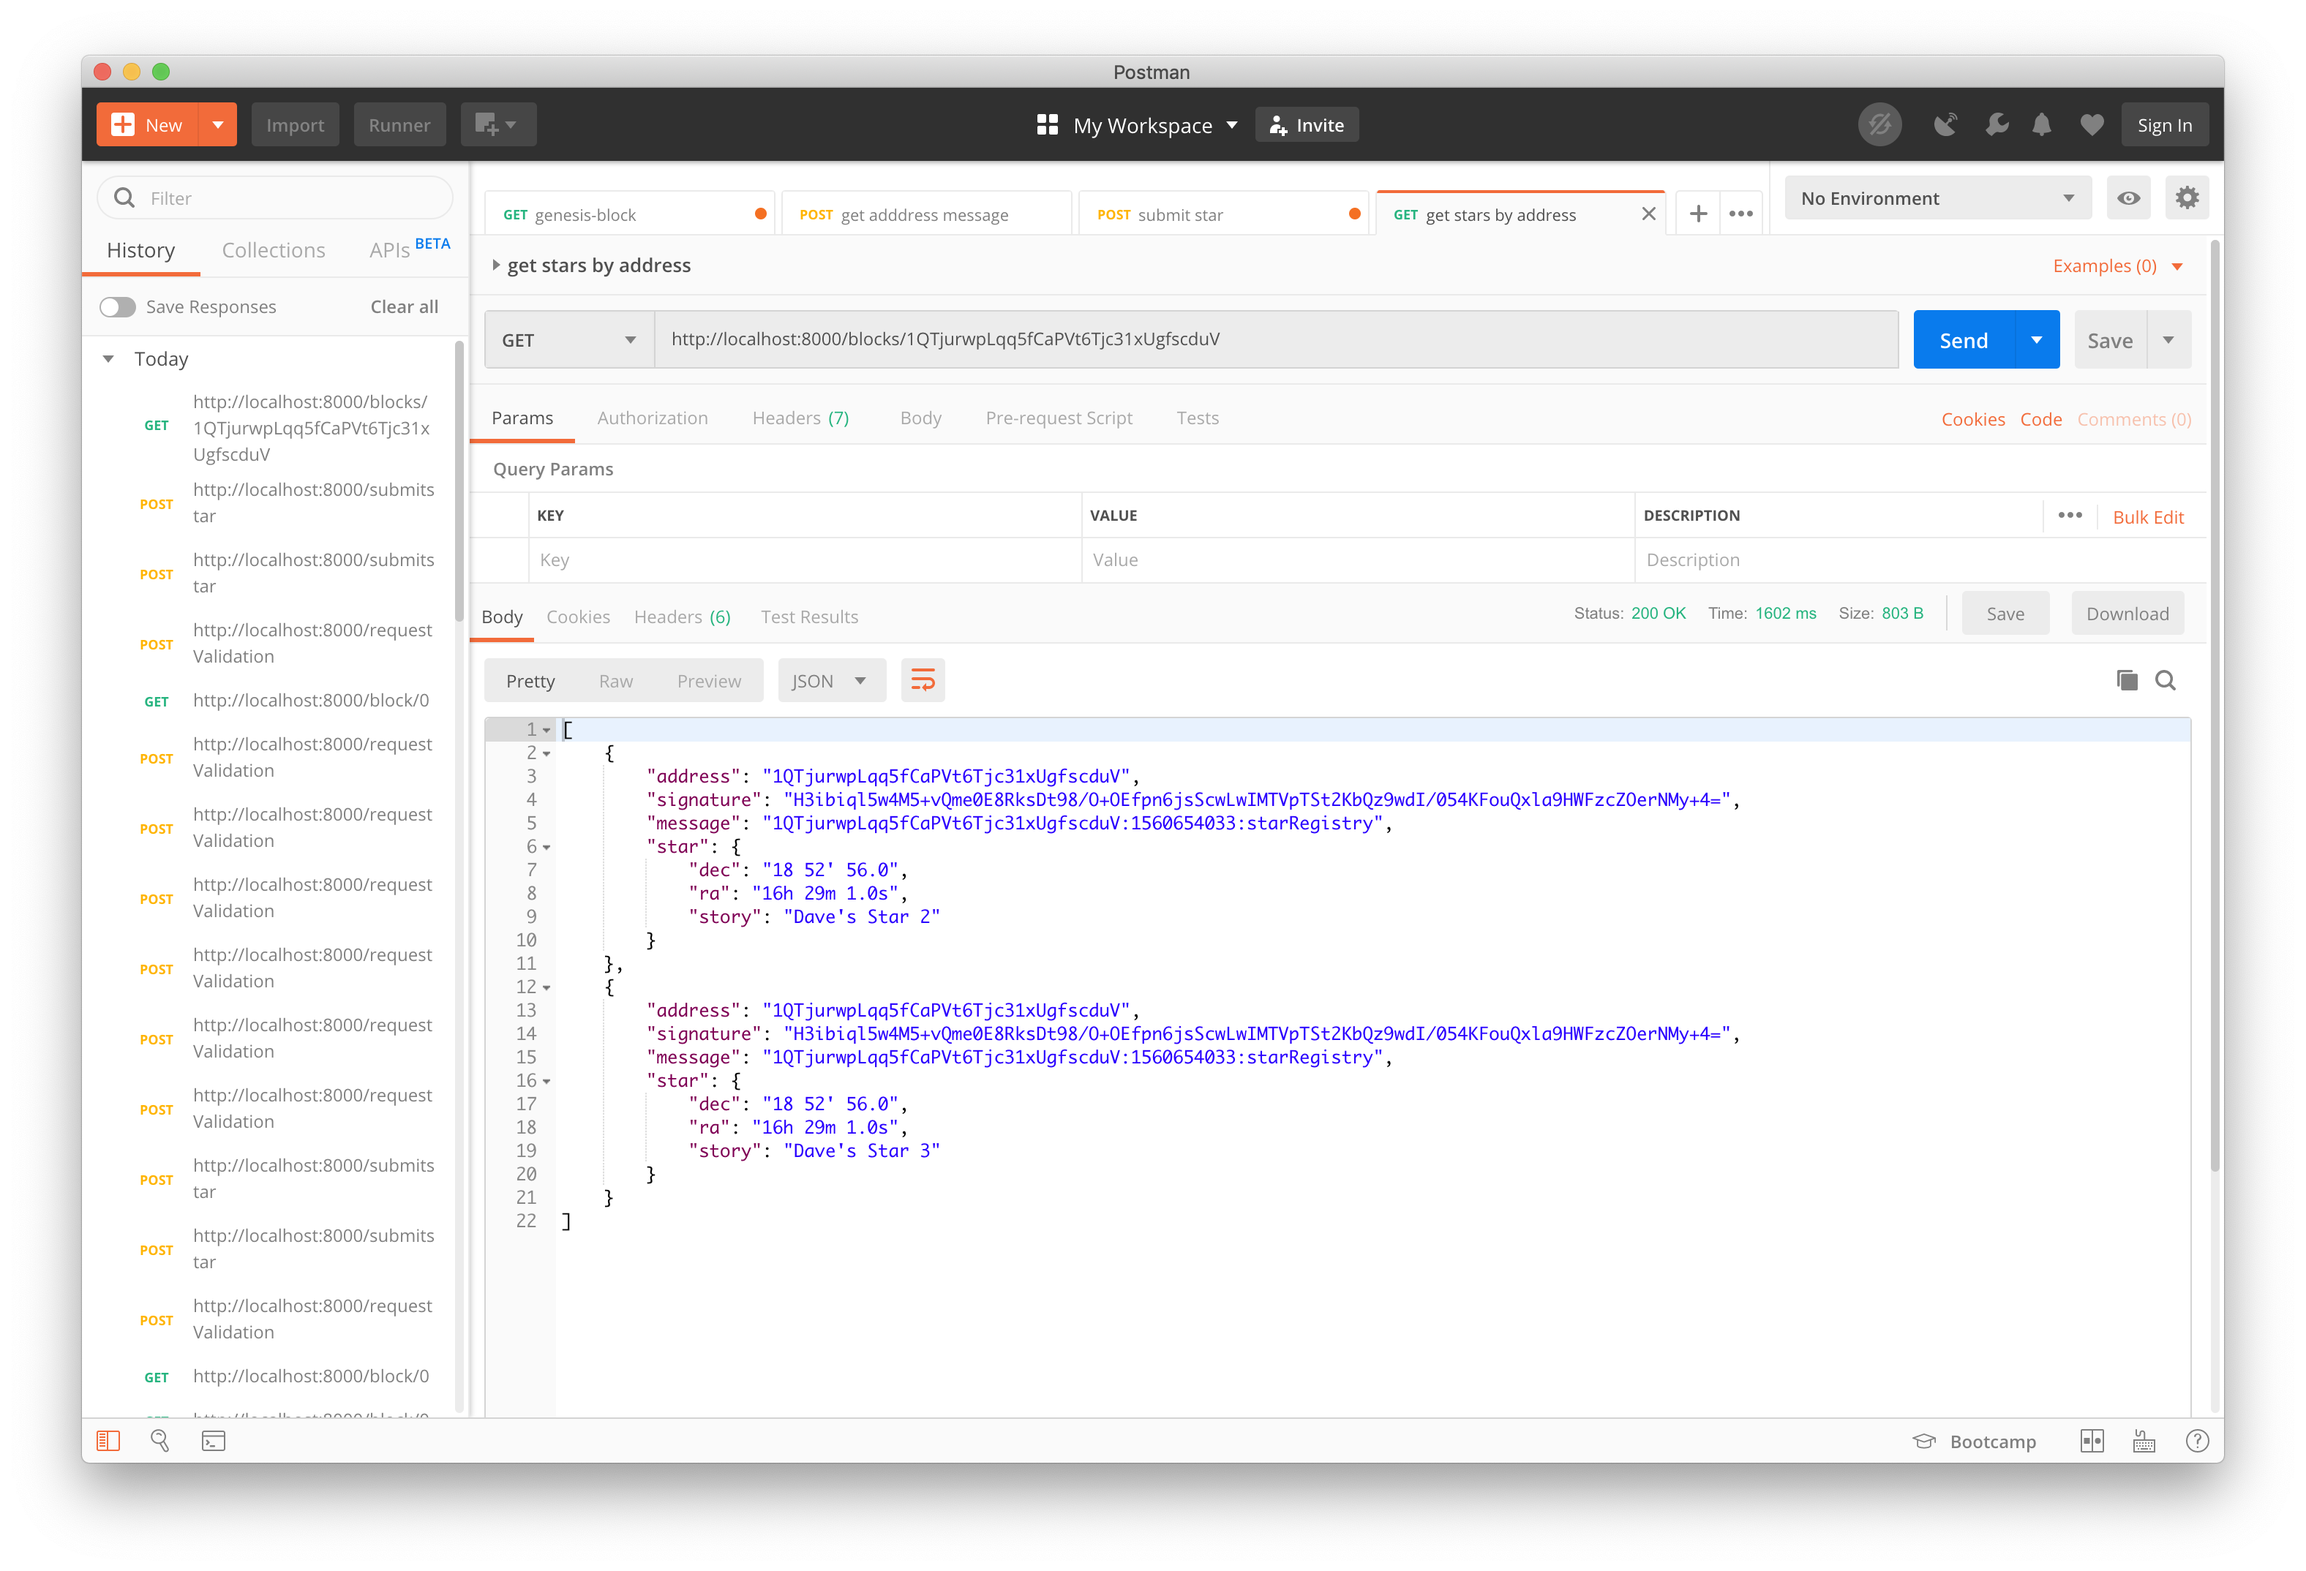
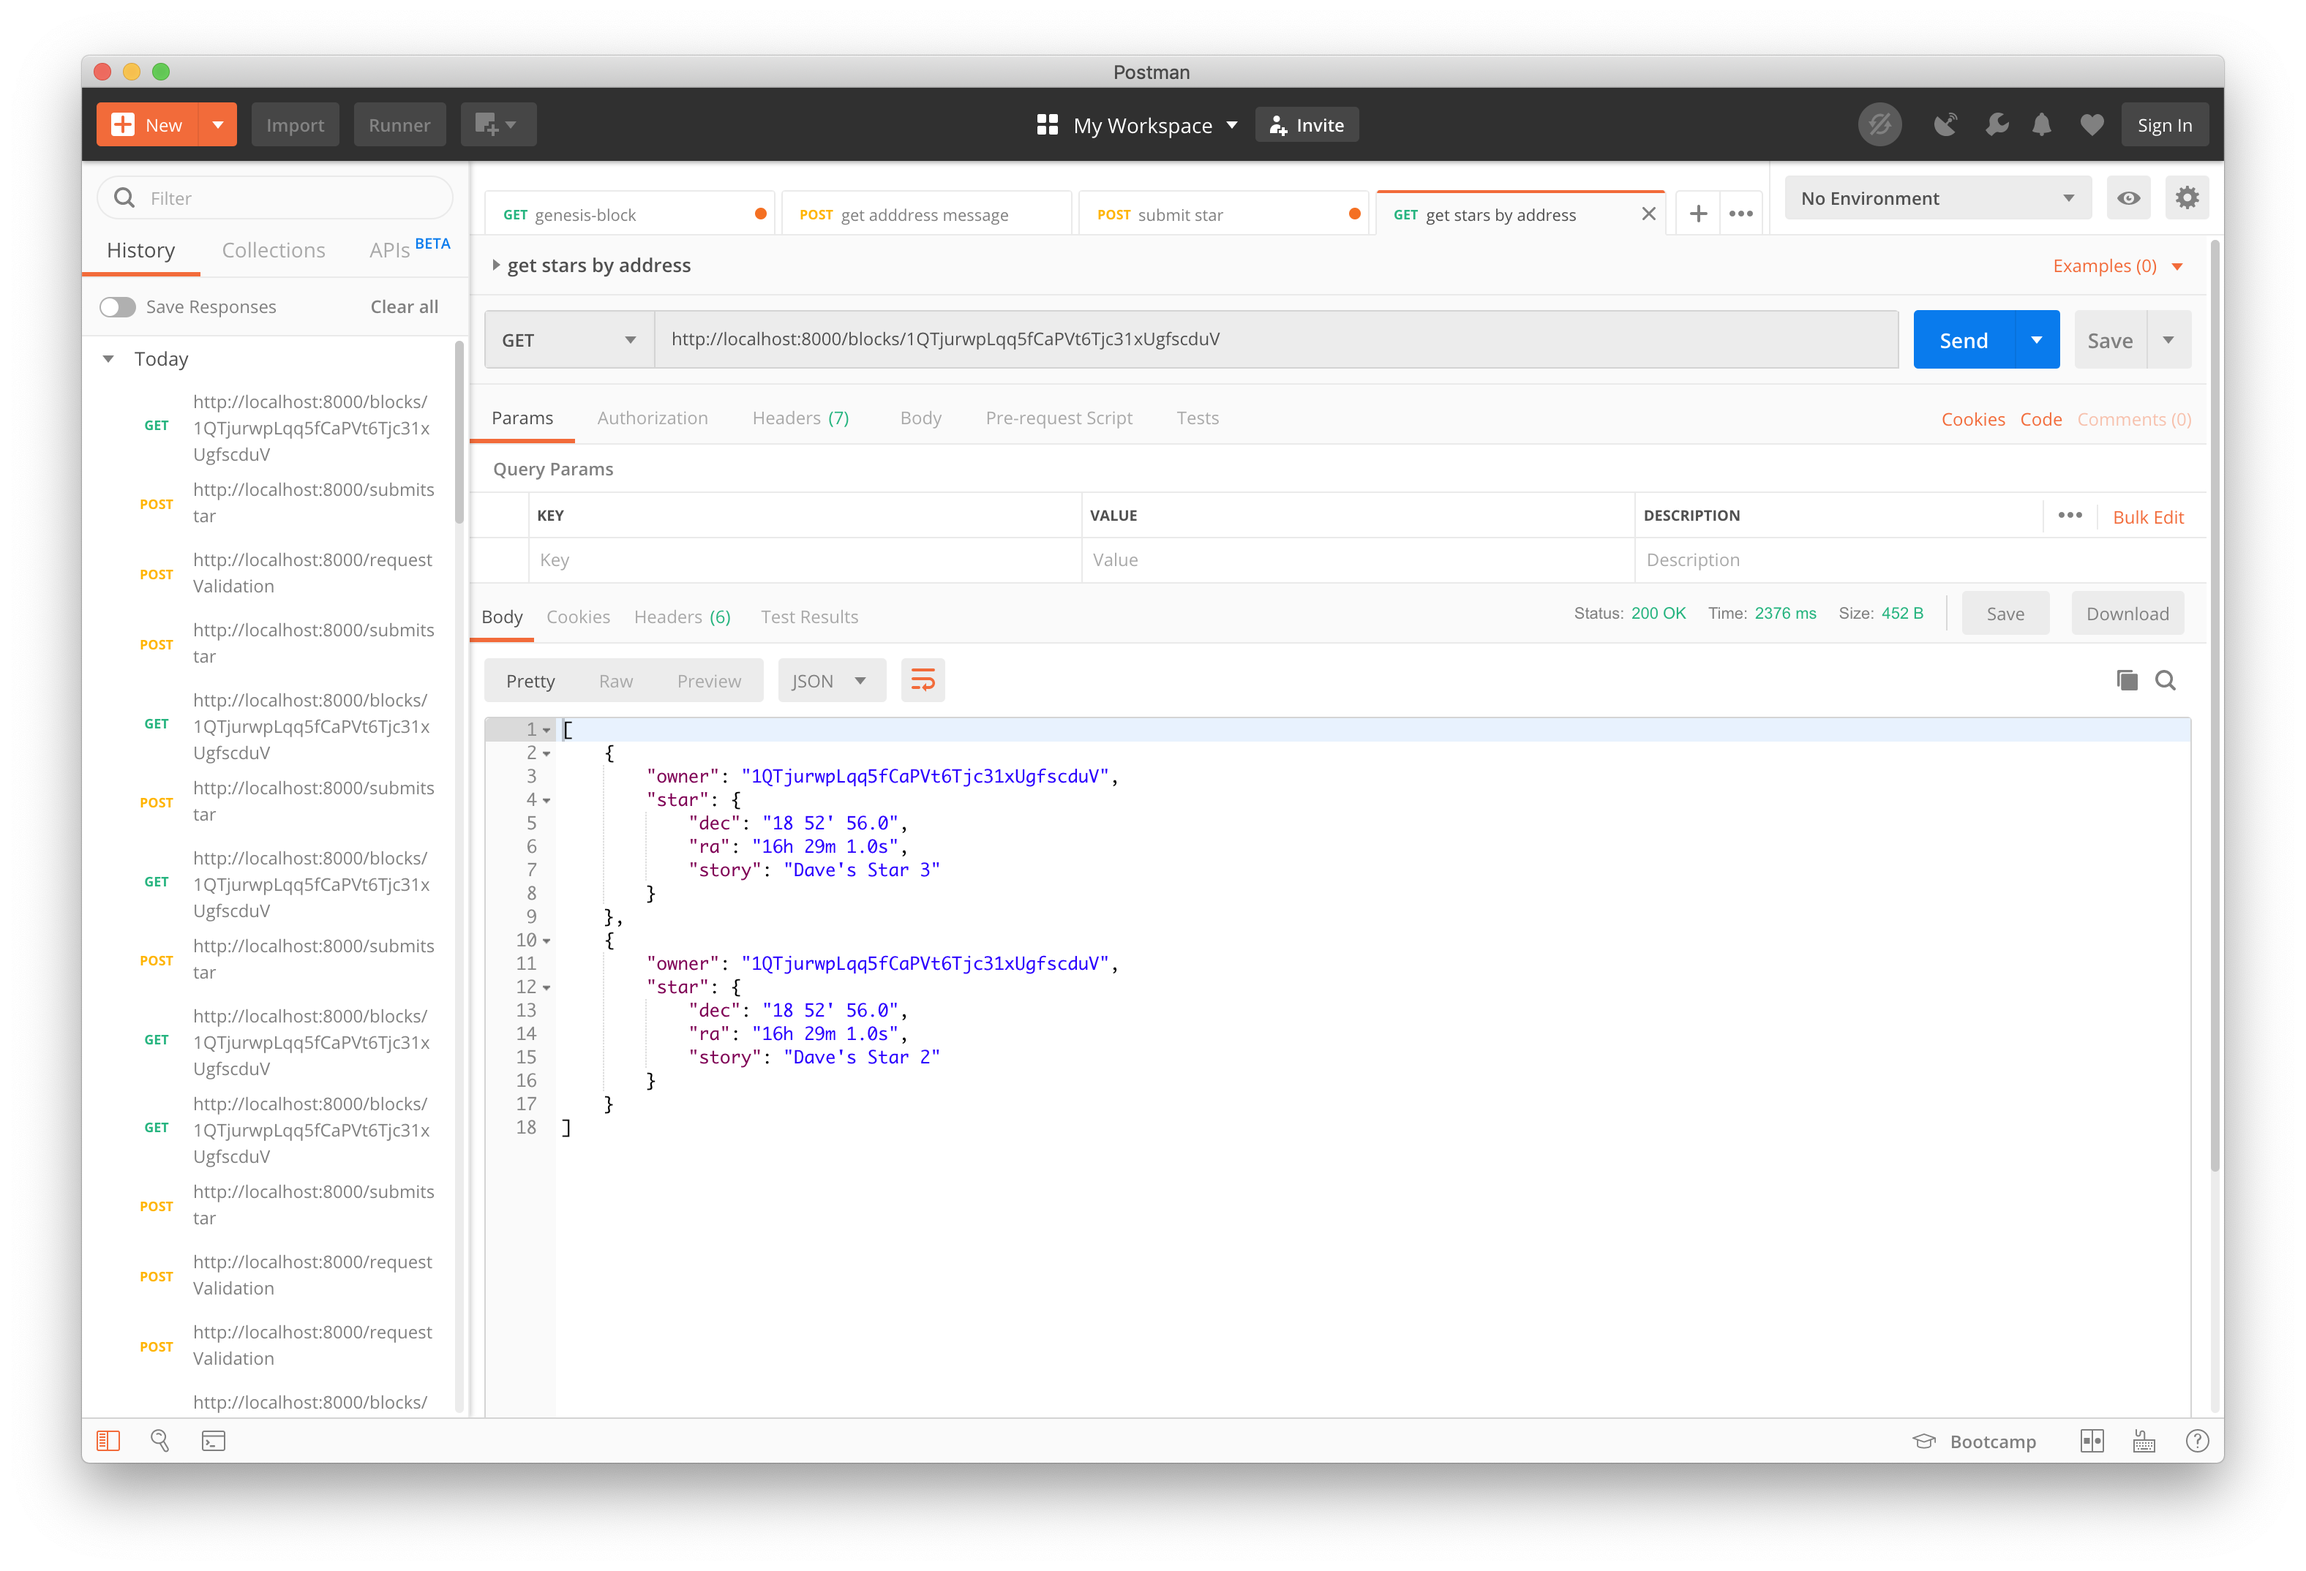
Implement feedback

diff --git a/test/block.test.js b/test/block.test.js
@@ -2,8 +2,8 @@ const Blockchain = require('../src/blockchain').Blockchain;
 const Block = require('../src/block').Block;
 
 const address = "1QTjurwpLqq5fCaPVt6Tjc31xUgfscduV";
-const message = "1QTjurwpLqq5fCaPVt6Tjc31xUgfscduV:1560653634:starRegistry";
[1 lines of base64/hex data omitted]
+const message = "1QTjurwpLqq5fCaPVt6Tjc31xUgfscduV:1560684278:starRegistry";
[1 lines of base64/hex data omitted]
 const star = "test star"
 
 test('the block that has not been tampered with', () => {
@@ -48,10 +48,9 @@ test('the block has data in it', () => {
   return blockchain.getBlockByHeight(1)
     .then(block => {
       return block.getBData();
-
-    }).then(body => {
+    })
+    .then(body => {
       expect(body.data).toBe('Test Block');
-
     })
 
 });
@@ -64,10 +63,8 @@ test('the genesis block returns an error when you try and get the data', () => {
   return blockchain.getBlockByHeight(0)
     .then(block => {
       return block.getBData();
-
     }).catch(error => {
       expect(error).toBe('Error cannot get data for genesis block');
-
     })
 
 });

diff --git a/src/block.js b/src/block.js
@@ -43,12 +43,15 @@ class Block {
 
             // Recalculate the hash of the Block
             self.hash = null;
-            self.hash = String(SHA256(JSON.stringify(self)));
- 
+            const recalculatedHash = String(SHA256(JSON.stringify(self)));
+
+            // Set the hash back to the original hash
+            self.hash = currentHash;
+
             // Comparing if the hashes changed
             // Returning the Block is not valid         
             // Returning the Block is valid
-            resolve(currentHash === self.hash);
+            resolve(currentHash === recalculatedHash);
         });
     }
 
@@ -63,7 +66,7 @@ class Block {
      */
     getBData() {
         let self = this;
-        return new Promise((resolve, reject) => {
+        return new Promise((resolve, reject) => {        
             // Getting the encoded data saved in the Block
             // Decoding the data to retrieve the JSON representation of the object
             // Parse the data to an object to be retrieve.

diff --git a/src/blockchain.js b/src/blockchain.js
@@ -74,7 +74,7 @@ class Blockchain {
 
             block.time = Date.now();
             block.height = ++self.height;
-            block.hash = SHA256(JSON.stringify(block));
+            block.hash = SHA256(JSON.stringify(block)).toString();
 
             this.chain.push(block);
 
@@ -181,11 +181,15 @@ class Blockchain {
         return new Promise((resolve, reject) => {
 
             for (let i = 1; i < self.chain.length; i++) {
-                self.chain[i].getBData().then(function (data) {
+                self.chain[i].getBData()
+                .then( data => {
                     if (data.address === address) {
-                        stars.push(data);
+                        stars.push({
+                            owner: address,
+                            star: data.star
+                        });
                     }
-                });
+                })
             }
             resolve(stars);
         });
